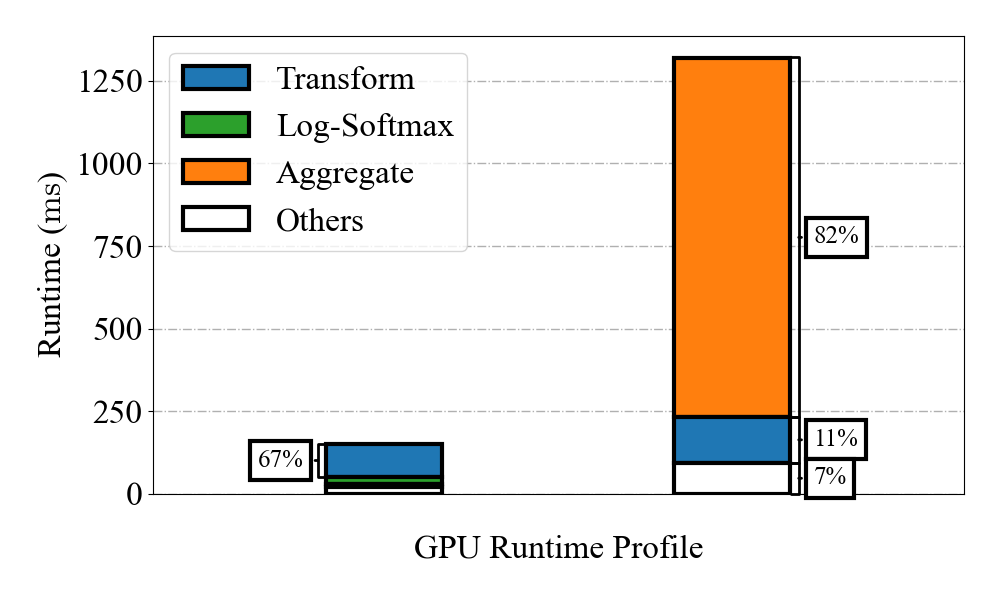
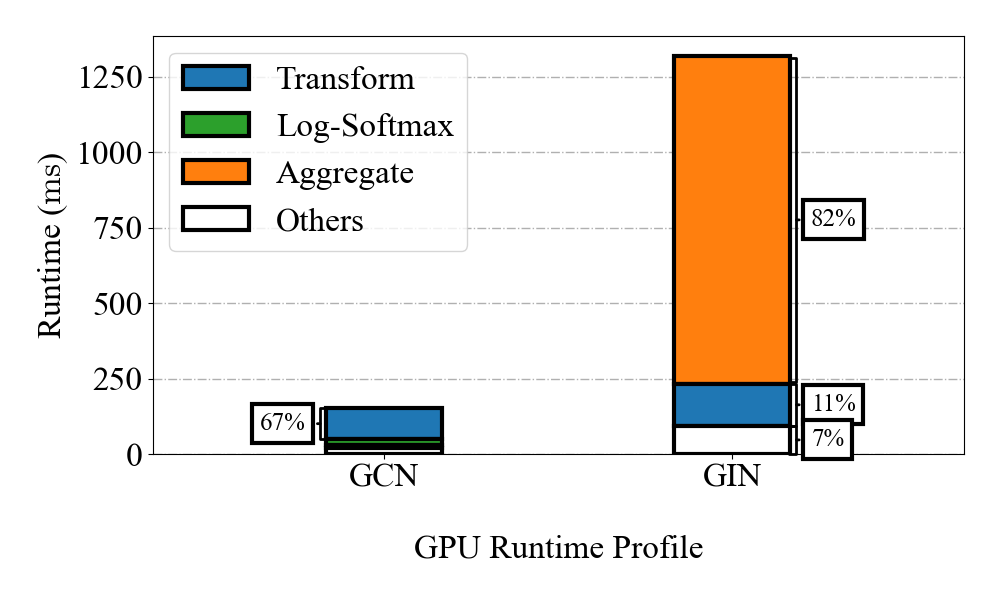
Add the x-ticks

diff --git a/CSC2516/GNNAdvisor-saved_artifacts/plotter.py b/CSC2516/GNNAdvisor-saved_artifacts/plotter.py
@@ -124,14 +124,14 @@ if __name__ == '__main__':
                 side = not prev_side
 
             plt.annotate('%.0f%%' % (vlist[i] * 100.0 / sum(vlist)),
-                    xy    =(x+0.55 * (1 if side is True else -1), middle_pos), 
-                    xytext=(x+0.7  * (1 if side is True else -1), middle_pos), 
+                    xy    =(x+0.53 * (1 if side is True else -1), middle_pos), 
+                    xytext=(x+0.68  * (1 if side is True else -1), middle_pos), 
                     fontsize=annotation_fontsize,
                     ha='left' if side is True else 'right', 
                     va='center', 
                     bbox=dict(boxstyle='square', facecolor='white', linewidth=3),
                     arrowprops=dict(arrowstyle="-[, widthB=%f, lengthB=0.3" % 
-                        (0.51 / plt.ylim()[1] * annotation_fontsize * bar_length),
+                        (0.46 / plt.ylim()[1] * annotation_fontsize * bar_length),
                     linewidth=2))
             prev_side = side
             prev_percentage = vlist[i] / plt.ylim()[1]
@@ -142,7 +142,7 @@ if __name__ == '__main__':
     annotate_list(gin_gpu_kernel_profile, 3, annotation_fontsize, True)
 
     plt.xlim([-2*bar_width, 3 + 2*bar_width])
-    plt.xticks([])
+    plt.xticks([0, 3], ['GCN', 'GIN'])
     plt.xlabel(xlabel)
     plt.ylabel(ylabel)
 
